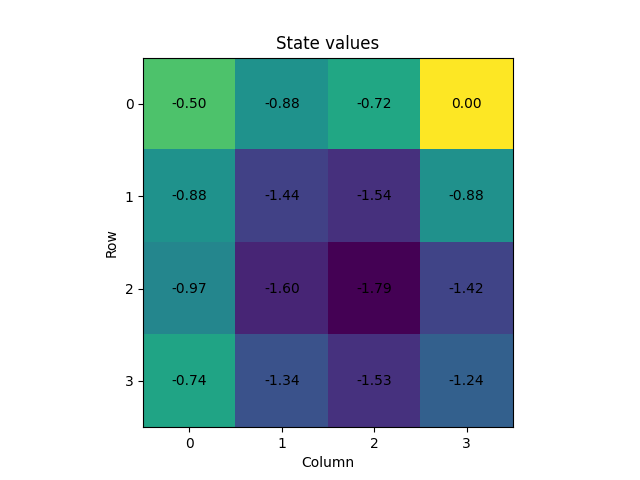
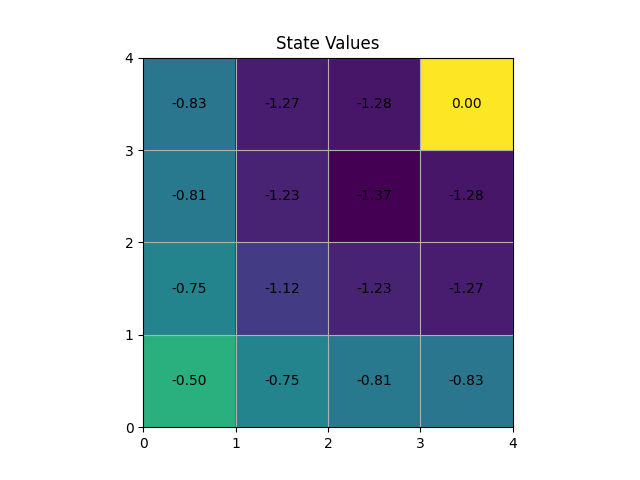
bellman and mc for gridworld updated and added

diff --git a/experiments/bellman_gridworld.py b/experiments/bellman_gridworld.py
@@ -6,18 +6,19 @@ from estimators.bellman import BellmanGridWorld2D
 grid_size  = 4
 n_episodes = 1000
 gamma      = 1
-state_values = np.zeros((grid_size, grid_size))
-state_values[0, grid_size-1] = 0 # This is the terminal state and should remain 0
+state_values = np.ones((grid_size, grid_size)) * 0.5
+state_values[grid_size-1, grid_size-1] = 0
 
-seed = np.random.seed(42)
+seed = 42
 
-env = GridWorld(grid_size=grid_size)
+env = GridWorld(grid_size=grid_size, mode='bellman')
 agent = RandomPolicy2D(action_dim=4, seed=seed)
-estimator = BellmanGridWorld2D() # This is just used for plotting purposes
+estimator = BellmanGridWorld2D(grid_size=grid_size) # This is just used for plotting purposes
 
 iteration  = 0
 delta_     = np.inf     # The error between future and current estimates of value function
-threshold  = 0.1 # This is used as the stop criteria
+threshold  = 0.01 # This is used as the stop criteria
+save_rate  = 100  # To limit the number of images to be saved
 
 while delta_ > threshold:
     delta_ = 0
@@ -25,17 +26,20 @@ while delta_ > threshold:
         for col in range(grid_size):
             state = (row, col)
             # For the final state, we do not update. It should remain 0
-            if state == (0, grid_size-1):
+            if (state == env.terminal_state).all():
                 continue
             value_ = 0
+            pi_a_s = 1/len(agent.actions)
 
             for action_ in agent.actions:
                 # Since the agent is using a random policy, the probability of taking each action
                 # equals to 1/4
                 prob, next_state, reward = env.update(state, action_)
                 # The reason we do not see the summation because it is deterministic
-                value_ += ((1/len(agent.actions)) * prob * (reward + gamma * state_values[next_state]))
-            delta_ = max(delta_, abs(value_-state_values[state]))
-            state_values[state] = value_
-    estimator.plot(state_values, iteration)
+                n_row, n_col = next_state
+                value_ += (pi_a_s * prob * (reward + gamma * state_values[n_row, n_col]))
+            delta_ = max(delta_, abs(value_-state_values[row, col]))
+            state_values[row, col] = value_
+    if iteration % save_rate == 0:
+        estimator.plot(state_values, iteration // save_rate)
     iteration += 1

diff --git a/estimators/mc_value_estimator.py b/estimators/mc_value_estimator.py
@@ -1,4 +1,5 @@
 import os
+import numpy as np
 import matplotlib.pyplot as plt
 from matplotlib.animation import FuncAnimation
 
@@ -26,6 +27,67 @@ class MonteCarloValueEstimator:
             self.state_values[state] = sum(self.returns[state])/len(self.returns[state])
             self.episode_states.append(state)
         
+    def plot_states_gridworld(self, dir_, grid_size):
+        fig, ax = plt.subplots()
+        ax.set_xlim(0, grid_size)
+        ax.set_ylim(0, grid_size)
+        ax.set_yticks(range(0, grid_size+1))
+        ax.set_xticks(range(0, grid_size+1))
+        ax.grid(linewidth=1, visible=True)
+
+        agent,  = ax.plot([], [], "o", markersize=20)
+
+
+        def update_frame(frame):
+            row, col = self.episode_states[::-1][frame]
+            agent.set_data([col+0.5], [row+0.5])
+            return agent,
+
+        ani = FuncAnimation(
+            fig,
+            update_frame,
+            frames=len(self.episode_states),
+            interval=500,
+            blit=True
+        )
+
+        ani.save(f'{self.save_dir}state_animation/{dir_}.gif', writer="pillow", fps=2)
+        plt.close(fig)
+        plt.close()
+
+        fig, ax = plt.subplots()
+
+        grid = np.zeros((grid_size, grid_size))
+
+        for state, value in self.state_values.items():
+            row, col = state
+            grid[row, col] = value
+
+        ax.imshow(grid,
+                  origin="lower",
+                  extent=(0, grid_size, 0, grid_size)
+                  )
+
+        # Display each value inside its cell
+        for row in range(grid.shape[0]):
+            for col in range(grid.shape[1]):
+                ax.text(
+                    col+0.5,
+                    row+0.5,
+                    f"{grid[row, col]:.2f}",
+                    ha="center",
+                    va="center"
+                )
+
+        ax.set_title("State Values")
+        ax.set_xticks(np.arange(0, grid_size+1, 1))
+        ax.set_yticks(np.arange(0, grid_size+1, 1))
+        ax.grid()
+        ax.tick_params()
+        fig.savefig(f'{self.save_dir}state_values/{dir_}.png')
+        plt.close(fig)
+        plt.close()
+
 
     def plot_states(self, dir_):
 

diff --git a/estimators/bellman.py b/estimators/bellman.py
@@ -3,35 +3,38 @@ import numpy as np
 import matplotlib.pyplot as plt
 
 class BellmanGridWorld2D:
-    def __init__(self):
+    def __init__(self, grid_size):
         self.out_dir = './logs/GridWorld2D/stateValues/'
         os.makedirs(self.out_dir, exist_ok=True)
+        self.grid_size = grid_size
 
     def plot(self, state_values, iteration):
-        plt.figure()
         fig, ax = plt.subplots()
 
-        ax.imshow(state_values)
+
+        ax.imshow(state_values,
+                  origin="lower",
+                  extent=(0, self.grid_size, 0, self.grid_size)
+                  )
 
         # Display each value inside its cell
         for row in range(state_values.shape[0]):
             for col in range(state_values.shape[1]):
                 ax.text(
-                    col,
-                    row,
+                    col+0.5,
+                    row+0.5,
                     f"{state_values[row, col]:.2f}",
                     ha="center",
                     va="center"
                 )
 
-        ax.set_xticks(np.arange(state_values.shape[1]))
-        ax.set_yticks(np.arange(state_values.shape[0]))
-
-        ax.set_xlabel("Column")
-        ax.set_ylabel("Row")
-        ax.set_title("State values")
-
-        plt.savefig(f'{self.out_dir}{iteration}.png')
-
+        ax.set_title("State Values")
+        ax.set_xticks(np.arange(0, self.grid_size+1, 1))
+        ax.set_yticks(np.arange(0, self.grid_size+1, 1))
+        ax.grid()
+        ax.tick_params()
+        fig.savefig(f'{self.out_dir}/{iteration}.png')
+        plt.close(fig)
+        plt.close()
 
         

diff --git a/envs/gridworld.py b/envs/gridworld.py
@@ -2,22 +2,28 @@ import numpy as np
 from envs.environment import Environment
 
 class GridWorld(Environment):
-    def __init__(self, grid_size=4):
+    def __init__(self, grid_size=4, mode='bellman'):
         super().__init__()
-        self.init_state     = np.array([grid_size-1, 0])
-        self.terminal_state = np.array([0,grid_size-1])
+        self.init_state     = np.array([0, 0])
+        self.terminal_state = np.array([grid_size-1, grid_size-1])
         self.grid_size = grid_size
+        self.mode = mode
 
     def update(self, state, action):
         # This function return probability of the next state, next_state and the reward
-        next_state = tuple(state + action)
+        next_state = state + action
 
         ### We need to check whether the agent goes out of boundaries
         if next_state[0] < 0 or next_state[0] >= self.grid_size or \
             next_state[1] < 0 or next_state[1] >= self.grid_size:
-            return 0, state, -1
+            prob, next_state, reward=  1, state, -1
         
-        if (next_state == self.terminal_state).all():
-            return 1, next_state, 0
-        
-        return 1, next_state, -1
+        elif (next_state == self.terminal_state).all():
+            prob, next_state, reward = 1, next_state, 0
+        else:
+            prob, next_state, reward = 1, next_state, -1
+
+        if self.mode == 'mc':
+            return next_state, reward
+        else:
+            return prob, next_state, reward

diff --git a/experiments/monte_carlo_gridworld.py b/experiments/monte_carlo_gridworld.py
@@ -1,0 +1,33 @@
+from envs.gridworld import GridWorld
+from agents.random_policy import RandomPolicy2D
+from estimators.mc_value_estimator import MonteCarloValueEstimator
+
+seed = 0
+n_episodes = 10000
+save_rate  = 1000  # To make sure, we are saving every 1000 steps
+grid_size  = 4
+n_actions  = 4
+gamma      = 1
+
+env   = GridWorld(grid_size=grid_size, mode='mc')
+agent = RandomPolicy2D(action_dim=n_actions, seed=seed)
+estimator = MonteCarloValueEstimator(gamma=gamma, n_states=n_actions, dir_='bellman_gridworld/') # n_states is not needed for this problem, I just filled it as a placeholder
+
+
+
+for episode_idx in range(n_episodes):
+    env.reset()
+    state = env.current_state
+    episode = []
+    while True:
+        action     = agent.act(state)
+        next_state, reward = env.update(state=state, action=action)
+        episode.append((tuple(state), reward))
+        state =  next_state
+        if (state == env.terminal_state).all():
+            episode.append((tuple(state), reward))
+            break
+    estimator.update(episode)
+
+    if episode_idx % save_rate == 0:
+        estimator.plot_states_gridworld(dir_= episode_idx // save_rate, grid_size=grid_size)

diff --git a/experiments/random_walk_1d.py b/experiments/random_walk_1d.py
@@ -13,15 +13,14 @@ n_episodes = 10
 
 for episode_idx in range(n_episodes):
     state = env.reset()
-    done = False
     episode = []
-    while not done:
+    while True:
         action = policy.act(state)
         next_state, reward = env.step(action)
         episode.append((state, reward))
         state = next_state
         if state == env.far_right_state or state == env.far_left_state:
-            done = True
+            break
     
     mc.update(episode)
 

diff --git a/agents/random_policy.py b/agents/random_policy.py
@@ -12,7 +12,7 @@ class RandomPolicy1D(Agent):
 class RandomPolicy2D(Agent):
     def __init__(self, action_dim, seed):
         super().__init__(action_dim, seed)
-        self.actions = [np.array([1,0]), np.array([-1,0]), np.array([0,1]), np.array([0,-1])] # Down, Up, Right, Left
+        self.actions = [np.array([-1,0]), np.array([1,0]), np.array([0,1]), np.array([0,-1])] # Down, Up, Right, Left
 
     def act(self, state):
         return super().act(state)

diff --git a/notes/bellman_eval_vs_monte_carlo.md b/notes/bellman_eval_vs_monte_carlo.md
@@ -1,0 +1,6 @@
+# Bellman Evaluation vs Monte Carlo Value Estimation
+Monte Carlo samples the state space to get an estimation of the state values. While Bellman evaluation needs to visit every state in the state space to update the valu function. However, to get a good estimate in Monte Carlo, many episode should be run.
+
+Monte Carlo is updating the state values in the end of the episode. If a state was not seen by the agent during the episode. It won't be updated. In Fig. ![Alt Text](logs/mc_vs_bellman_grid/state_values/0.png), you can see that the (3,0) state value remain zero as the agent did not visit that state. This shows that Monte Carlo needs to be run for many episodes to reach bellman performance.
+
+On the other hand, Bellman needs to sweep all the states in the state space.
